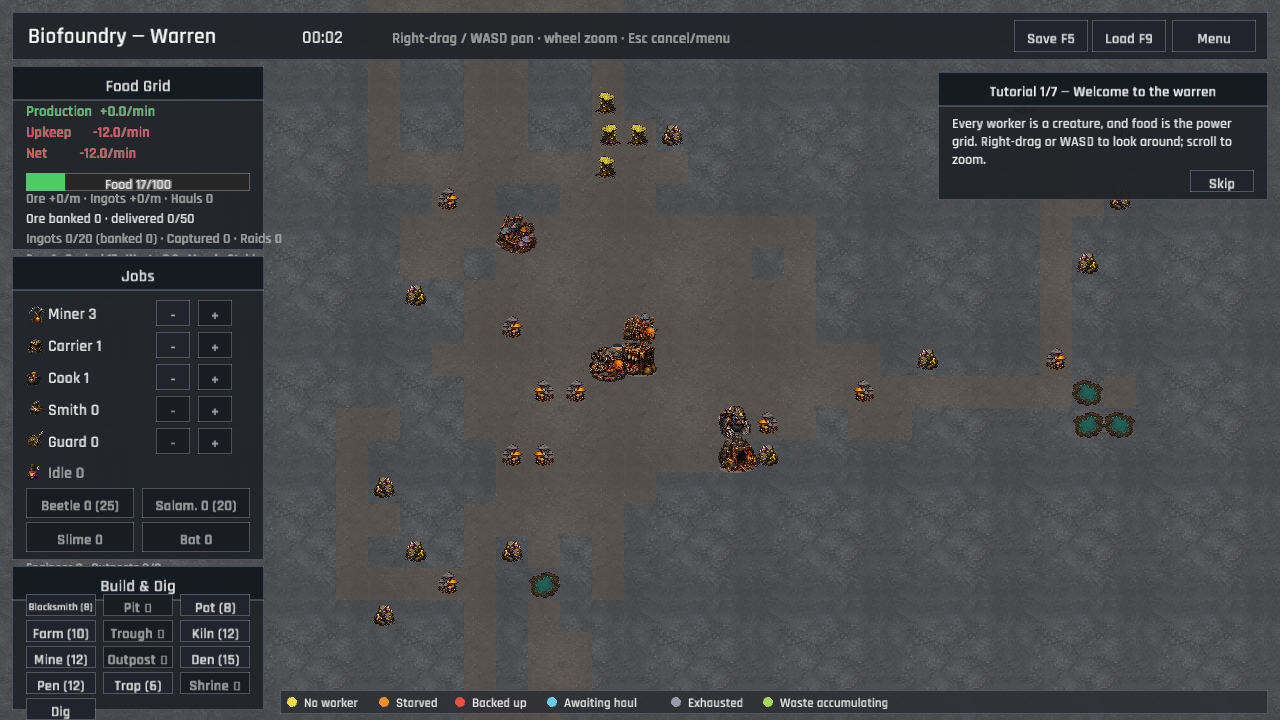
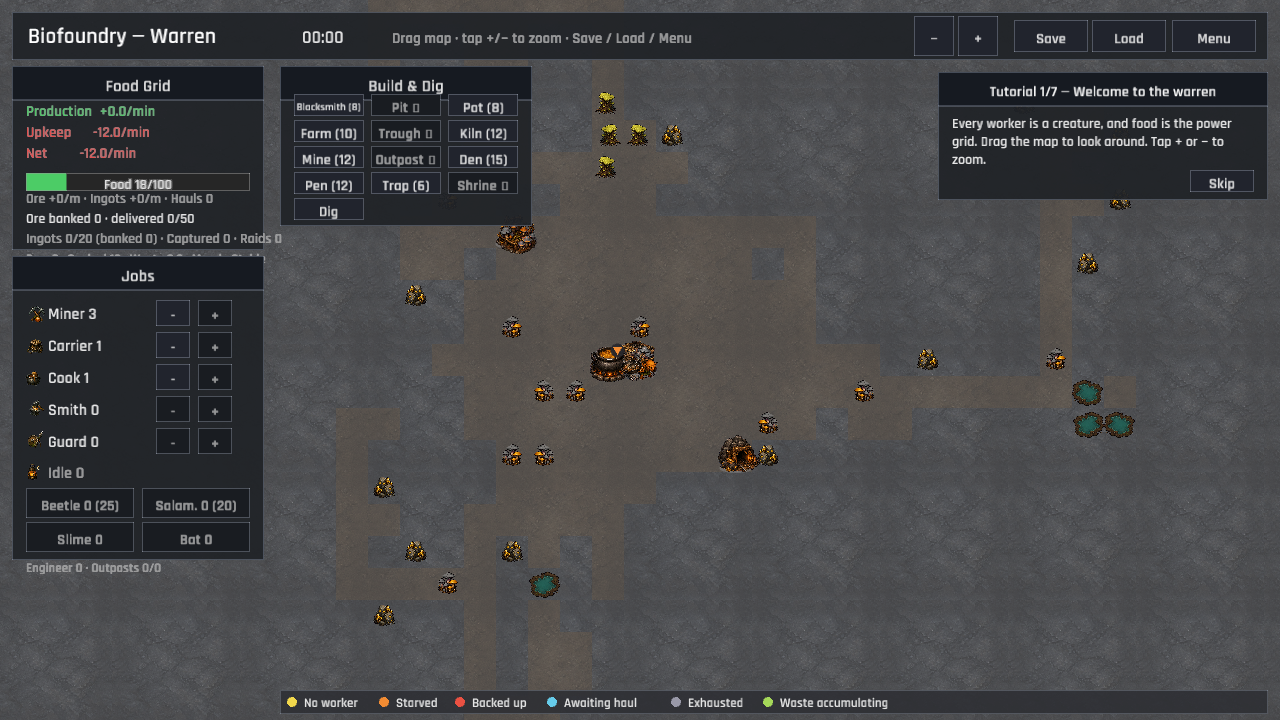
The warren opens its map to every touch and keeps its lessons until the worm wakes (touch-first camera, HUD, tutorial, and campaign flow)
The opening lesson depended on right-drag, keyboard pan, and wheel zoom, while the browser layout left Build & Dig below the fold at 1280x720. The final tutorial also advanced on the earlier secured-warren flag instead of the worm awakening, and the public control copy led with shortcuts that touch players could not use.

Handle primary-pointer dragging and toolkit touch gestures directly in Game, including pinch zoom, visible +/− zoom controls, and drag-claim suppression so a map gesture cannot become a tile or HUD click. Reflow Build & Dig beside the opening panels, make player-facing instructions name direct gestures and visible buttons first, and gate the final data-driven tutorial step on worm_awake. Add regression coverage for the final gate and refresh the Warren verification capture.

Verified with cargo fmt -- --check, cargo test --all-targets (65 project tests plus integration checks), cargo clippy --all-targets --all-features -- -D warnings, the shared toolkit gesture suite (359 tests), the primary-pointer WebGL smoke flow at 1280x720, and publish.ps1 with no parameters. The fixed-seed campaign remains the documented 39.9-minute baseline with zero desertions.

diff --git a/src/game.rs b/src/game.rs
@@ -12,6 +12,7 @@ use macroquad::prelude::*;
 use macroquad_toolkit::camera::{Camera2D, Camera2DConfig, CameraBounds};
 use macroquad_toolkit::events::EventBus;
 use macroquad_toolkit::grid::TilePos;
+use macroquad_toolkit::input::TouchGesture;
 use macroquad_toolkit::notifications::{
     NotificationAnchor, NotificationManager, NotificationRenderConfig,
 };
@@ -19,6 +20,8 @@ use macroquad_toolkit::persistence::{
     load_from_slot_with_migration, save_to_slot_with_version, slot_exists,
 };
 use macroquad_toolkit::prelude::{begin_virtual_ui_frame, dark, end_virtual_ui_frame, InputState};
+
+const CAMERA_DRAG_THRESHOLD: f32 = 6.0;
 
 mod capture_scenes;
 #[path = "game_actions.rs"]
@@ -44,6 +47,14 @@ pub struct Game {
     save_exists: bool,
     /// Where the right button went down, to tell a click from a camera drag.
     right_press: Vec2,
+    /// Where the primary pointer went down for direct map panning.
+    mouse_pan_start: Option<Vec2>,
+    /// Whether this frame's primary-pointer gesture claimed the map.
+    camera_input_claimed: bool,
+    /// Touch recognizer for one-finger map drags and two-finger pinch zoom.
+    touch_gesture: TouchGesture,
+    /// Keeps a claimed touch drag from becoming a synthetic mouse tap.
+    touch_camera_claimed: bool,
     /// Building tile the player clicked to inspect (first-pass legibility).
     selected_building: Option<TilePos>,
     /// Embedded storybook creature atlas used by the warren renderer.
@@ -79,6 +90,10 @@ impl Game {
             settings_open: false,
             save_exists,
             right_press: vec2(0.0, 0.0),
+            mouse_pan_start: None,
+            camera_input_claimed: false,
+            touch_gesture: TouchGesture::new(),
+            touch_camera_claimed: false,
             selected_building: None,
             world_sprites: ui::warren::WorldSprites::load(),
             menu_sprites: ui::menu::MenuSprites::load(),
@@ -94,6 +109,13 @@ impl Game {
     pub fn update(&mut self, dt: f32) {
         self.notifications.update(dt);
         let input = InputState::capture();
+
+        // The camera owns the primary pointer and touch gestures before the
+        // HUD turns a release into a world click. A claimed drag is carried
+        // through the release frame so it cannot also select a tile.
+        if matches!(&self.state, GameState::Warren(_)) {
+            self.update_camera_input(dt);
+        }
 
         if let GameState::Warren(session) = &mut self.state {
             self.accumulator += dt;
@@ -166,10 +188,7 @@ impl Game {
                 self.famine_announced = false;
             }
 
-            self.camera.update(dt, false);
-
             // Tutorial: advance any steps the player just satisfied. The
-            // "look around" step keys off actual camera motion.
             let camera_moved = (self.camera.target - self.last_camera.0).length() > 4.0
                 || (self.camera.zoom - self.last_camera.1).abs() > 0.01;
             if tutorial::advance(session, &self.data, TutorialInputs { camera_moved }) {
@@ -177,7 +196,7 @@ impl Game {
             }
             self.last_camera = (self.camera.target, self.camera.zoom);
 
-            // F-keys avoid colliding with WASD camera pan.
+            // Keyboard shortcuts remain secondary to the visible controls.
             if is_key_pressed(KeyCode::F5) {
                 self.events.push(UiAction::Save);
             }
@@ -255,9 +274,17 @@ impl Game {
                 end_virtual_ui_frame();
 
                 let mut actions = frame.actions;
+                // A claimed drag must not activate a HUD button when the
+                // browser delivers the touch/mouse release over that button.
+                if self.camera_input_claimed {
+                    actions.clear();
+                }
                 // Left-click routes to the world in every mode: tools act,
                 // Inspect selects the building under the cursor.
-                if !frame.pointer_over_ui && is_mouse_button_released(MouseButton::Left) {
+                if !frame.pointer_over_ui
+                    && !self.camera_input_claimed
+                    && is_mouse_button_released(MouseButton::Left)
+                {
                     if let Some(tile) = hover {
                         actions.push(UiAction::WorldClick(tile));
                     }
@@ -408,13 +435,72 @@ impl Game {
         // Don't let the reset itself count as "the player looked around".
         self.last_camera = (self.camera.target, self.camera.zoom);
     }
+
+    /// Apply touch gestures and primary-pointer dragging to the warren camera.
+    ///
+    /// Touches are handled explicitly because browsers may synthesize a left
+    /// mouse click for the first finger. A drag must pan the map while a short
+    /// contact must remain available to the HUD and world tools as a tap.
+    fn update_camera_input(&mut self, dt: f32) {
+        self.camera_input_claimed = false;
+        let touch = self.touch_gesture.update();
+        let previous_touch_claim = self.touch_camera_claimed;
+        if touch.active && touch.claimed {
+            self.touch_camera_claimed = true;
+        }
+        let touch_claimed = touch.claimed || previous_touch_claim;
+
+        if touch.pan.length_squared() > 0.0 {
+            self.camera.pan(-touch.pan / self.camera.zoom);
+        }
+        if (touch.scale - 1.0).abs() > f32::EPSILON {
+            self.camera.zoom_at(touch.scale, touch.center);
+        }
+
+        // Ignore synthetic mouse events while a finger is on the canvas or
+        // while a claimed touch is being released.
+        if touch.active || self.touch_camera_claimed {
+            self.mouse_pan_start = None;
+        } else {
+            let mouse: Vec2 = mouse_position().into();
+            if is_mouse_button_pressed(MouseButton::Left) {
+                self.mouse_pan_start = Some(mouse);
+                self.camera_input_claimed = false;
+            }
+            if let Some(start) = self.mouse_pan_start {
+                if is_mouse_button_down(MouseButton::Left)
+                    && mouse.distance(start) > CAMERA_DRAG_THRESHOLD
+                {
+                    self.camera_input_claimed = true;
+                    self.camera.pan(-(mouse - start) / self.camera.zoom);
+                    // Continue from the current pointer position so the
+                    // camera follows the drag without accumulating rounding.
+                    self.mouse_pan_start = Some(mouse);
+                }
+                if is_mouse_button_released(MouseButton::Left) {
+                    self.mouse_pan_start = None;
+                }
+            }
+        }
+
+        if !touch.active {
+            self.touch_camera_claimed = false;
+        }
+        self.camera_input_claimed |= touch_claimed;
+
+        // Keep optional keyboard and wheel shortcuts working while direct
+        // primary-pointer and touch gestures remain the required path.
+        self.camera.update(dt, false);
+    }
 }
 
 fn camera_config(data: &GameData, tile_size: f32) -> Camera2DConfig {
     let world_w = data.config.world_width as f32 * tile_size;
     let world_h = data.config.world_height as f32 * tile_size;
     Camera2DConfig {
-        drag_button: Some(MouseButton::Right),
+        // Game handles direct mouse and touch gestures so a primary-pointer
+        // drag can pan without turning the release into a world click.
+        drag_button: None,
         min_zoom: 0.5,
         max_zoom: 3.0,
         bounds: Some(CameraBounds::new(vec2(0.0, 0.0), vec2(world_w, world_h))),

diff --git a/src/tutorial/tests.rs b/src/tutorial/tests.rs
@@ -14,7 +14,7 @@ fn tutorial_data_loads_in_teaching_order() {
     assert_eq!(data.tutorial.first().unwrap().id, "welcome");
     assert!(matches!(
         data.tutorial.last().unwrap().done,
-        TutorialDone::Won
+        TutorialDone::WormAwake
     ));
 }
 
@@ -79,13 +79,26 @@ fn steps_complete_from_player_actions() {
         .insert("iron_pickaxe".to_owned(), 1);
     assert!(advance(&mut session, &data, none));
 
-    // 7. Win finishes the tutorial.
+    // 7. The awakened worm finishes the tutorial.
     assert_eq!(current_step(&session, &data).unwrap().id, "goals");
-    session.won = true;
+    session.worm_awake = true;
     assert!(advance(&mut session, &data, none));
     assert!(current_step(&session, &data).is_none(), "tutorial finished");
     let (done, total) = progress(&session, &data);
     assert_eq!(done, total);
+}
+
+#[test]
+fn final_tutorial_waits_for_the_worm() {
+    let (data, mut session) = boot();
+    let none = TutorialInputs::default();
+    session.tutorial_step = data.tutorial.iter().position(|s| s.id == "goals").unwrap();
+    session.won = true;
+
+    assert!(!advance(&mut session, &data, none));
+    session.worm_awake = true;
+    assert!(advance(&mut session, &data, none));
+    assert!(current_step(&session, &data).is_none());
 }
 
 #[test]

diff --git a/src/ui/hud/panels.rs b/src/ui/hud/panels.rs
@@ -72,7 +72,7 @@ pub(super) fn draw_top_bar(
         );
     } else {
         draw_ui_text_ex(
-            "Right-drag / WASD pan · wheel zoom · Esc cancel/menu",
+            "Drag map · tap +/− to zoom · Save / Load / Menu",
             bar.x + 380.0,
             bar.y + 31.0,
             TextStyle::new(15.0, dark::TEXT_DIM).params(),
@@ -88,8 +88,24 @@ pub(super) fn draw_top_bar(
         actions.push(UiAction::BackToMenu);
     }
     if hud_button(
+        Rect::new(bar.right() - 354.0, bar.y + 4.0, 40.0, 40.0),
+        "−",
+        true,
+        mouse,
+    ) {
+        actions.push(UiAction::ZoomCamera(-1));
+    }
+    if hud_button(
+        Rect::new(bar.right() - 310.0, bar.y + 4.0, 40.0, 40.0),
+        "+",
+        true,
+        mouse,
+    ) {
+        actions.push(UiAction::ZoomCamera(1));
+    }
+    if hud_button(
         Rect::new(bar.right() - 254.0, bar.y + 8.0, 74.0, 32.0),
-        "Save F5",
+        "Save",
         true,
         mouse,
     ) {
@@ -97,7 +113,7 @@ pub(super) fn draw_top_bar(
     }
     if hud_button(
         Rect::new(bar.right() - 176.0, bar.y + 8.0, 74.0, 32.0),
-        "Load F9",
+        "Load",
         true,
         mouse,
     ) {

diff --git a/src/game_actions.rs b/src/game_actions.rs
@@ -6,6 +6,7 @@ use crate::simulation;
 use crate::state::creatures::Job;
 use crate::state::{GameState, StateTransition};
 use crate::ui::{UiAction, UiMode};
+use macroquad::prelude::*;
 
 impl Game {
     pub(super) fn apply_action(&mut self, action: UiAction) {
@@ -184,6 +185,15 @@ impl Game {
                 self.audio.set_volume(volume);
                 self.audio.save_settings(&self.data.config.game_name);
                 self.audio.play(Sfx::Select);
+            }
+            UiAction::ZoomCamera(direction) => {
+                let factor = if direction >= 0 {
+                    self.camera.config.zoom_in_factor
+                } else {
+                    self.camera.config.zoom_out_factor
+                };
+                self.camera
+                    .zoom_at(factor, vec2(screen_width(), screen_height()) * 0.5);
             }
             UiAction::ExitGame => macroquad::miniquad::window::quit(),
         }

diff --git a/src/ui/hud.rs b/src/ui/hud.rs
@@ -70,7 +70,10 @@ pub fn draw(
     let top_bar = Rect::new(12.0, 12.0, LOGICAL_WIDTH - 24.0, 48.0);
     let food_panel = Rect::new(12.0, 66.0, PANEL_W, 184.0);
     let jobs_panel = Rect::new(12.0, 256.0, PANEL_W, 304.0);
-    let tools_panel = Rect::new(12.0, 566.0, PANEL_W, 144.0);
+    // Keep Build & Dig beside the other opening controls. The WebGL page can
+    // show a 1200x675 canvas below a header; putting this panel at the bottom
+    // makes its buttons disappear below the browser fold at 1280x720.
+    let tools_panel = Rect::new(PANEL_W + 28.0, 66.0, PANEL_W, 160.0);
 
     panels::draw_top_bar(session, top_bar, mouse, &mut actions);
     panels::draw_food_grid_panel(session, data, food_panel);

diff --git a/src/data.rs b/src/data.rs
@@ -378,8 +378,8 @@ pub enum TutorialDone {
     /// A piece of equipment (item id) has been crafted — in the stockpile
     /// pool or already worn.
     GearCrafted { item: String },
-    /// The first victory landed.
-    Won,
+    /// The Colossal Worm has awakened, completing the campaign tutorial.
+    WormAwake,
 }
 
 #[derive(Debug, Clone, Serialize, Deserialize)]

diff --git a/src/ui/hud/inspect.rs b/src/ui/hud/inspect.rs
@@ -358,7 +358,7 @@ pub(super) fn draw_inspect_panel(
             }
         }
         _ => {
-            line("Click empty ground to deselect", dark::TEXT_DIM, &mut y);
+            line("Tap empty ground to deselect", dark::TEXT_DIM, &mut y);
         }
     }
 

diff --git a/src/tutorial.rs b/src/tutorial.rs
@@ -79,7 +79,7 @@ fn step_done(
                     .iter()
                     .any(|c| c.equipment.as_deref() == Some(item.as_str()))
         }
-        TutorialDone::Won => session.won,
+        TutorialDone::WormAwake => session.worm_awake,
     }
 }
 

diff --git a/src/ui.rs b/src/ui.rs
@@ -58,6 +58,8 @@ pub enum UiAction {
     ToggleSettings,
     /// Nudge the sound volume by this many 10% steps.
     AdjustVolume(i8),
+    /// Zoom the warren camera around the screen centre.
+    ZoomCamera(i8),
     ExitGame,
 }
 
